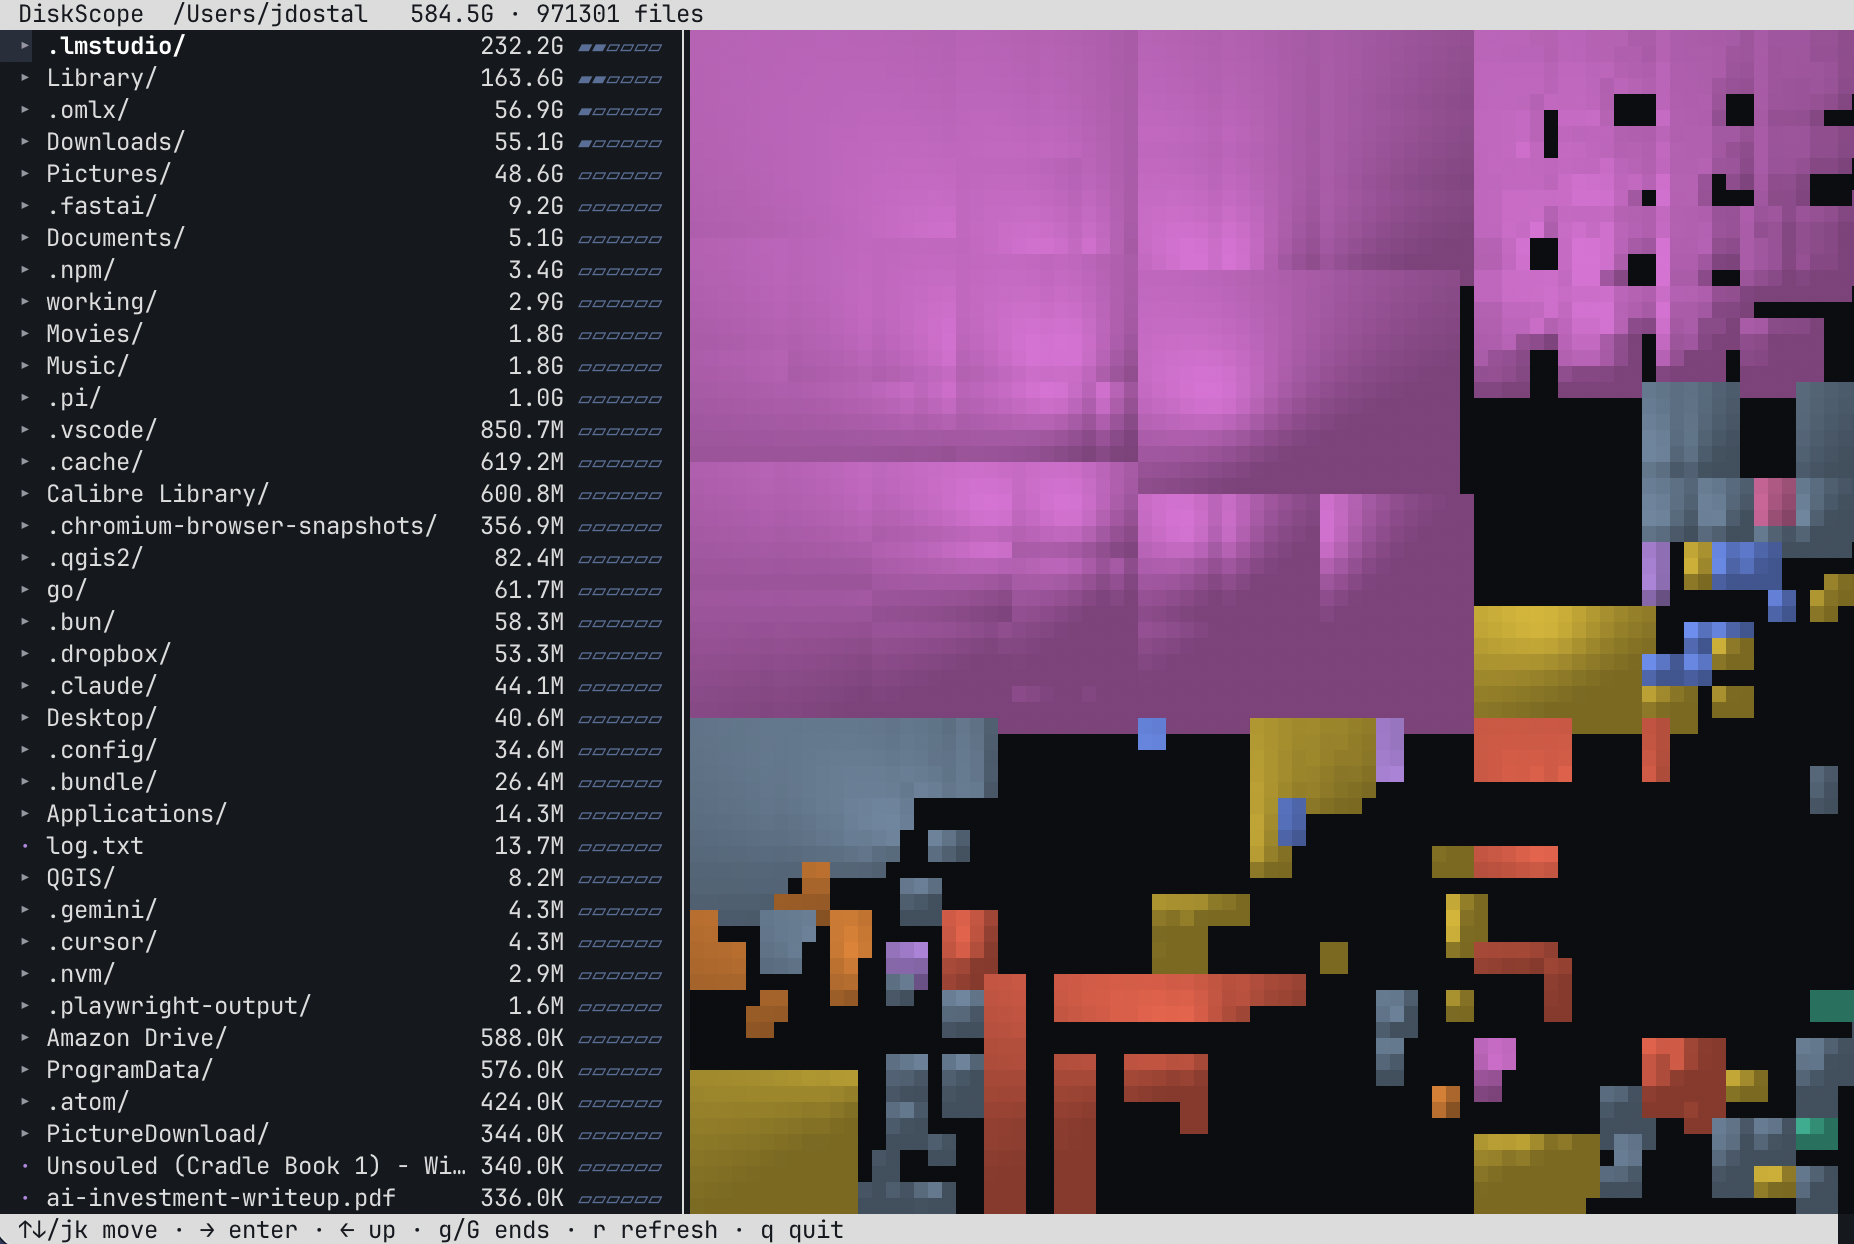
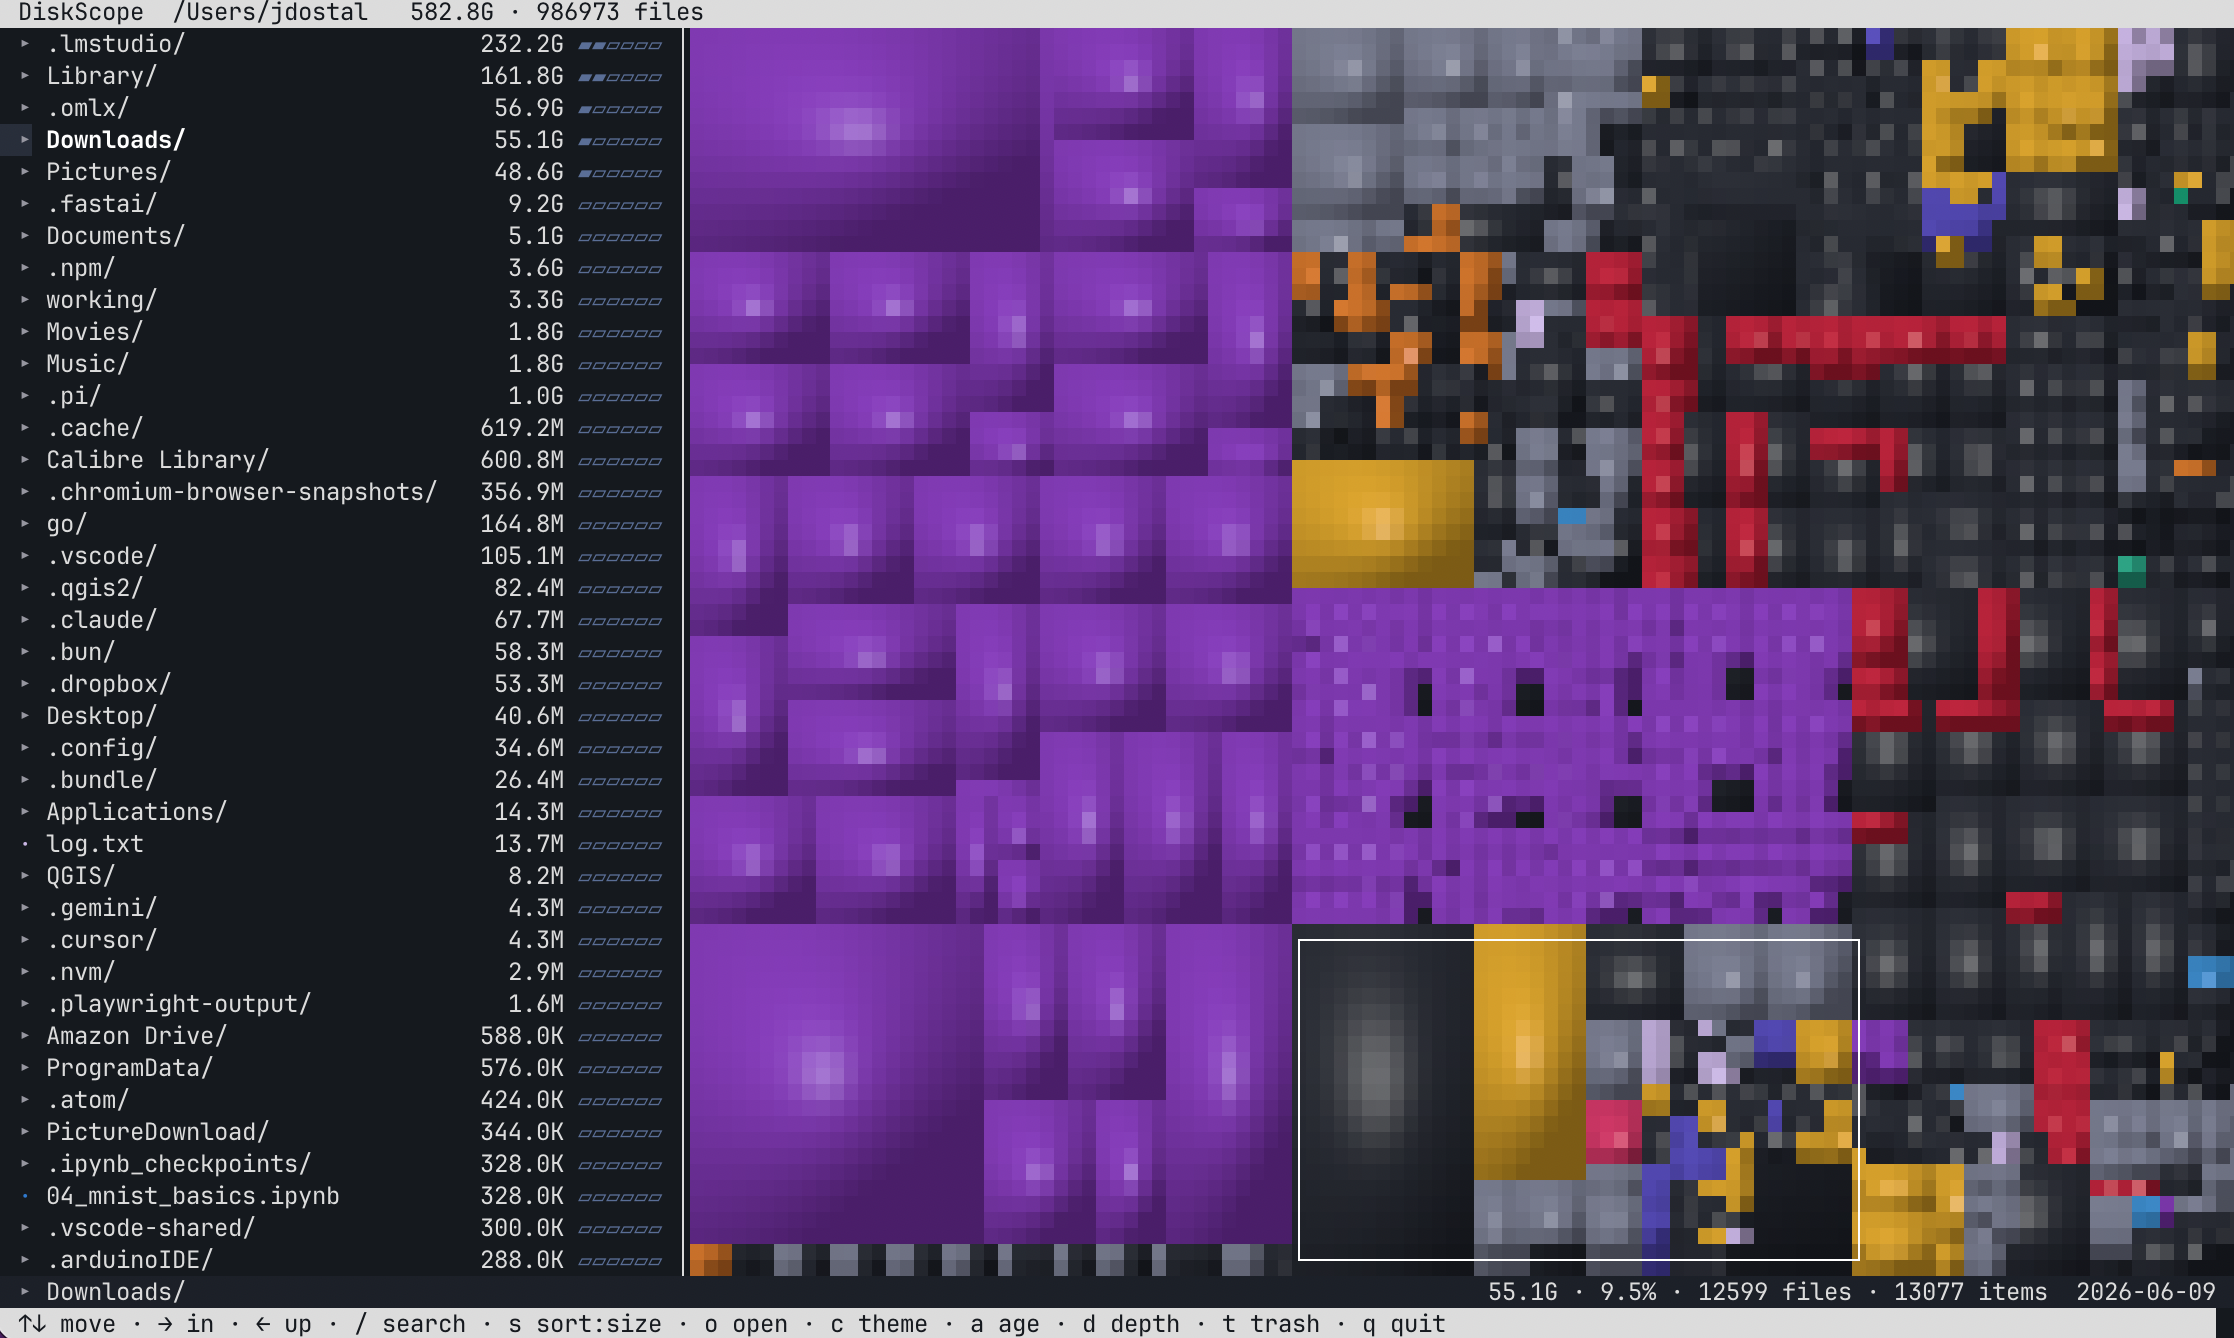
README: current feature set (search, agent, warm start, reclaim) + fresh screenshots

diff --git a/README.md b/README.md
@@ -1,7 +1,11 @@
 # DiskScope
 
-**A native macOS WinDirStat** — hit scan, and seconds later see exactly what's eating your
-disk as a fast, live, cushioned **treemap** next to a dense, sortable directory tree.
+**A native macOS WinDirStat — with Everything-style instant search built in.** Hit scan,
+and seconds later see exactly what's eating your disk as a fast, live, cushioned
+**treemap** next to a dense, sortable directory tree. Scan once, and DiskScope stays
+warm forever: the index persists, replays the filesystem journal on launch, and answers
+any filename search in milliseconds — from the app, the terminal, or a global-hotkey
+panel that works everywhere.
 
 ![DiskScope](readme.png)
 
@@ -10,22 +14,38 @@ by the bytes it eats, packed to stay near-square and readable, and each rectangl
 a 3D "cushion" with per-pixel Phong lighting written straight into a raw RGBA bitmap (no
 system 2D-drawing APIs), then tinted by file type through a perceptually-uniform **OKLCH**
 color palette. The scan itself is a parallel `getattrlistbulk(2)` walk, so a whole disk
-indexes in seconds.
+indexes in seconds — and only ever has to do it once.
 
 ## Features
 
-- **Cushioned treemap** — squarified, area-proportional, van Wijk cushion shading, colored by
-  file category in OKLCH.
-- **Dense directory tree** — name, %-of-parent bar, file count, size, and last-modified
-  columns; click-to-reveal in the treemap and back.
+- **Instant search** — every filename in an in-memory blob swept at memory bandwidth:
+  single-digit milliseconds per keystroke over a million files, ranked prefix > word-start >
+  substring, biggest first. `⌘F` in the app, `/` in the TUI, both live as you type.
+- **Query filters** — `ext:swift` · `size:>1.5gb` · `size:<10mb` · `kind:file|folder` ·
+  `path:working`; bare words AND together.
+- **Search everywhere** — closing the window leaves a menu-bar agent running: a global
+  hotkey (configurable; Spotlight-style floating panel) searches every local volume as one
+  namespace. Volumes index on mount, drop on eject; optional launch-at-login.
+- **Warm start** — the index persists and relaunch replays only the FSEvents journal since
+  you quit: a 1M-file disk reopens in well under a second, offline changes included.
+- **Live updates** — the treemap, tree, and legend track filesystem changes in real time
+  (incremental reconciles, not rescans).
+- **Cushioned treemap** — squarified, area-proportional, van Wijk cushion shading with a
+  specular glint, Retina-resolution, colored by file category in OKLCH. Double-click to
+  drill into a folder; hover to inspect; Space for Quick Look.
+- **Dense directory tree** — name, %-bar, file count, size, and last-modified columns;
+  selection syncs with the treemap both ways.
 - **File-type legend** — per-extension breakdown; click a type to isolate its tiles on the map.
-- **Selection inspector** — size, share of disk/parent, file & item counts, modified/created.
-- **Themes** — curated OKLCH palettes (Spectrum, Dracula, Catppuccin, Nord, Solarized,
-  Synthwave, Gruvbox, Cairn) plus a **Custom** theme with live sliders.
-- **Real file actions** — Reveal in Finder, Open, Move to Trash (the index updates in place).
+- **Reclaim pane** — "where did my disk go": scanned files vs volume used, the Time Machine
+  snapshot + purgeable gap explained (one-click thin), and known space hogs found in your
+  scan — DerivedData, caches, iOS backups, Docker images, topmost `node_modules`.
+- **Themes** — a big library of curated OKLCH palettes plus a **Custom** theme with live
+  sliders, shared by the app and the TUI; optional age-fade and depth-fade layers.
+- **Real file actions** — Reveal in Finder, Open, Quick Look, Move to Trash (the index
+  updates in place).
 - **Full Disk Access** onboarding so protected folders get counted.
-- **A full terminal UI** — the same engine, rendered as a navigable cushioned treemap right in
-  your terminal (plus SVG/PNG and benchmark CLI modes).
+- **A full terminal UI** — the same engine, same instant search, same themes, rendered as a
+  navigable cushioned treemap right in your terminal (plus SVG/PNG and benchmark CLI modes).
 
 ## Install
 
@@ -60,9 +80,13 @@ the whole disk.
 ## Terminal UI
 
 Just run `diskscope` — with no arguments it opens a fully interactive treemap of the current
-directory right in your terminal — same scan, same cushions, drilling around with the keyboard.
-Pass a path to scope it there. Needs a **truecolor** terminal (iTerm2, Ghostty,
-kitty, WezTerm).
+directory right in your terminal — same scan, same cushions, warm-started from the shared
+index when one exists. Pass a path to scope it there. Needs a **truecolor** terminal
+(iTerm2, Ghostty, kitty, WezTerm).
+
+Drive it with the keyboard or the mouse: arrows/`hjkl` move, `→` drills in, `/` searches
+live (same filters as the app), `s` cycles sort, `c` picks a theme, `a`/`d` toggle age and
+depth shading, `t` trashes, and clicking list rows or treemap tiles selects them directly.
 
 ![DiskScope TUI](tui.png)
 